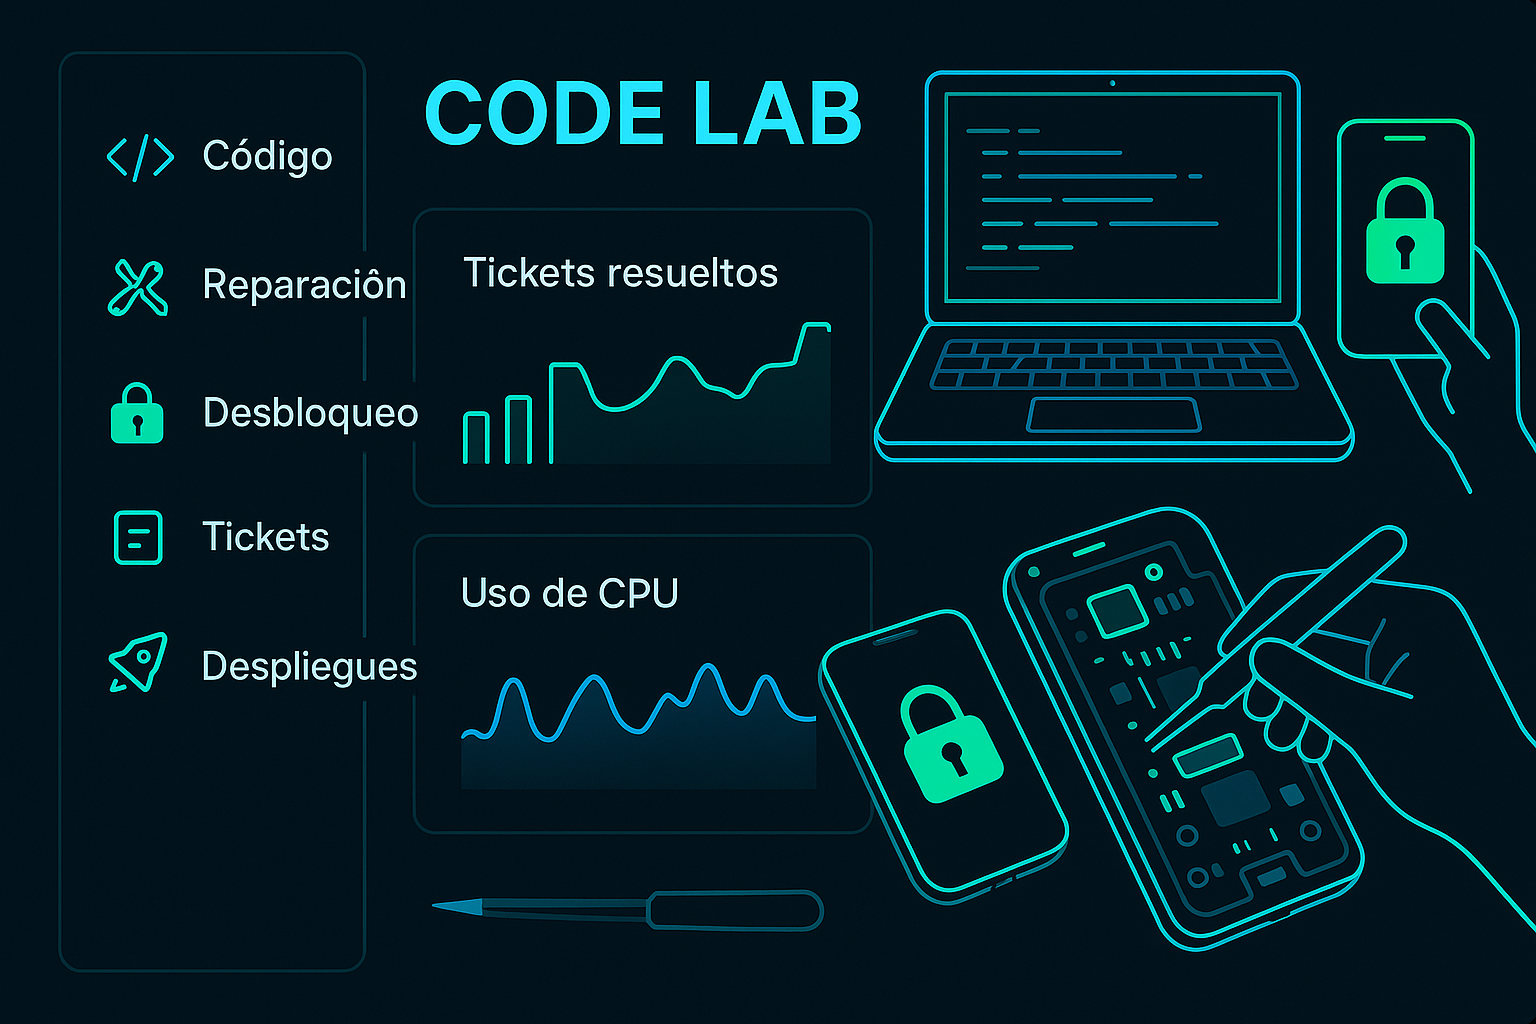
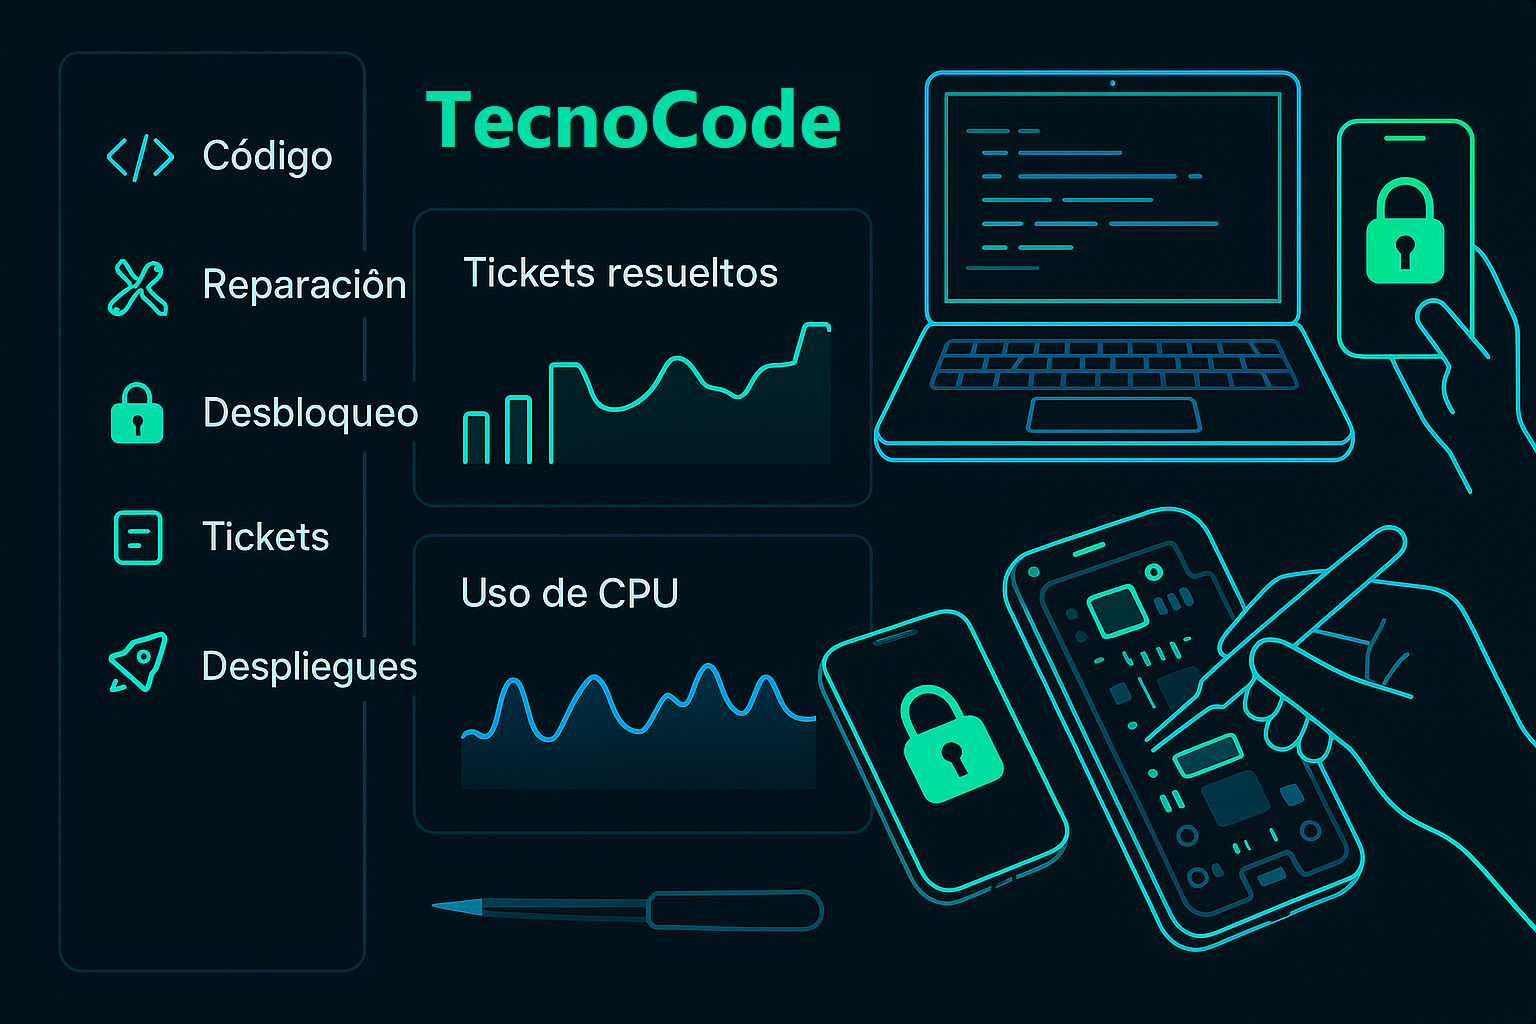
cambios varios

Changed region(s): [[0.25, 0.0625, 0.5625, 0.1562]]

diff --git a/src/app/componets/ChatWidget.js b/src/app/componets/ChatWidget.js
@@ -33,7 +33,6 @@ export default function ChatWidget() {
   };
 
   useEffect(() => {
-    // Check rate limits whenever the component mounts or the chat opens
     checkRateLimits();
 
     if (timeRemaining > 0) {
@@ -52,7 +51,6 @@ export default function ChatWidget() {
   }, [timeRemaining, isOpen]);
 
   const checkRateLimits = () => {
-    // Check cooldown timer
     const lastSubmitTime = localStorage.getItem('lastEmailSubmit');
     if (lastSubmitTime) {
       const timeSinceLastSubmit = Math.floor((Date.now() - parseInt(lastSubmitTime)) / 1000);
@@ -60,12 +58,8 @@ export default function ChatWidget() {
         setTimeRemaining(COOLDOWN_TIME - timeSinceLastSubmit);
       }
     }
-
-    // Check daily email limit
     const today = new Date().toDateString();
     const emailHistory = JSON.parse(localStorage.getItem('emailSubmitHistory') || '{}');
-    
-    // Clean up old entries (optional)
     const updatedHistory = {};
     for (const date in emailHistory) {
       if (date === today || new Date(date) >= new Date(today)) {
@@ -73,11 +67,11 @@ export default function ChatWidget() {
       }
     }
     localStorage.setItem('emailSubmitHistory', JSON.stringify(updatedHistory));
-    
+
     // Check today's count
     const todayCount = updatedHistory[today] || 0;
     setDailyEmailsLeft(MAX_EMAILS_PER_DAY - todayCount);
-    
+
     if (todayCount >= MAX_EMAILS_PER_DAY) {
       setError(`Has alcanzado el límite de ${MAX_EMAILS_PER_DAY} mensajes por día. Inténtalo mañana.`);
       return false;
@@ -89,19 +83,16 @@ export default function ChatWidget() {
   const updateSubmitHistory = () => {
     const today = new Date().toDateString();
     const emailHistory = JSON.parse(localStorage.getItem('emailSubmitHistory') || '{}');
-
-    // Update today's count
     emailHistory[today] = (emailHistory[today] || 0) + 1;
-    
+
     localStorage.setItem('emailSubmitHistory', JSON.stringify(emailHistory));
     localStorage.setItem('lastEmailSubmit', Date.now().toString());
-    
+
     setTimeRemaining(COOLDOWN_TIME);
     setDailyEmailsLeft(prev => Math.max(0, prev - 1));
   };
 
   const toggleChat = () => {
-    // If opening the chat, check limits again
     if (!isOpen) {
       checkRateLimits();
     }
@@ -113,7 +104,6 @@ export default function ChatWidget() {
   const handleSubmit = (e) => {
     e.preventDefault();
 
-    // Check if user can submit again
     if (!checkRateLimits()) {
       return;
     }
@@ -132,34 +122,34 @@ export default function ChatWidget() {
       },
       process.env.NEXT_PUBLIC_EMAILJS_PUBLIC_KEY
     )
-    .then(() => {
-      updateSubmitHistory();
-      setSuccess('¡Mensaje enviado con éxito!');
-      setEmail('');
-      setFullName('');
-      setMensaje('');
-    })
-    .catch((error) => {
-      console.error('Error al enviar el mensaje:', error);
-      setError('Ocurrió un error al enviar el mensaje.');
-    })
-    .finally(() => {
-      setIsSubmitting(false);
-    });
+      .then(() => {
+        updateSubmitHistory();
+        setSuccess('¡Mensaje enviado con éxito!');
+        setEmail('');
+        setFullName('');
+        setMensaje('');
+      })
+      .catch((error) => {
+        console.error('Error al enviar el mensaje:', error);
+        setError('Ocurrió un error al enviar el mensaje.');
+      })
+      .finally(() => {
+        setIsSubmitting(false);
+      });
   };
 
   return (
     <div className="fixed bottom-4 right-5 z-50">
       {isOpen ? (
-        <div className="bg-black rounded-md shadow-lg w-80 text-white border border-gray-700">
+        <div className="bg-black rounded-md shadow-lg w-80 text-white border-2 border-[#7e10c9]">
           <div className="flex justify-between items-center p-4 border-b border-gray-700">
             <div className="text-sm">
-              <h3 className="font-semibold">Por correo electrónico también puede contactarnos</h3>
+              <h3 className="font-semibold">Contáctanos ahora</h3>
               <p className="text-gray-400 text-xs">Ayúdanos a saber tu problema o consulta.</p>
               {dailyEmailsLeft < MAX_EMAILS_PER_DAY && (
                 <p className="text-xs text-yellow-300 mt-1">
-                  {dailyEmailsLeft > 0 
-                    ? `Te quedan ${dailyEmailsLeft} mensaje(s) hoy` 
+                  {dailyEmailsLeft > 0
+                    ? `Te quedan ${dailyEmailsLeft} mensaje(s) hoy`
                     : 'Has alcanzado el límite diario'}
                 </p>
               )}
@@ -174,13 +164,13 @@ export default function ChatWidget() {
             {success && <AlertMessage message={success} type="success" />}
 
             <div>
-              <label htmlFor="email" className="block text-sm mb-1">Correo Electrónico</label>
+              <label htmlFor="email" className="block text-sm mb-1">Tú Correo Electrónico</label>
               <input
                 type="email"
                 id="email"
                 value={email}
                 onChange={(e) => setEmail(e.target.value)}
-                placeholder="email@example.com"
+                placeholder="marcos@gmail.com"
                 className="w-full p-2 bg-gray-800 text-white rounded border border-gray-700"
                 required
                 disabled={dailyEmailsLeft <= 0}
@@ -202,12 +192,12 @@ export default function ChatWidget() {
             </div>
 
             <div>
-              <label htmlFor="mensaje" className="block text-sm mb-1">Descripción</label>
+              <label htmlFor="mensaje" className="block text-sm mb-1">Descripción y teléfono (opcional)</label>
               <textarea
                 id="mensaje"
                 value={mensaje}
                 onChange={(e) => setMensaje(e.target.value)}
-                placeholder="Quiero un desbloqueo"
+                placeholder="Quiero un desbloqueo de mi notebook"
                 className="w-full p-2 bg-gray-800 text-white rounded border border-gray-700"
                 rows={3}
                 required
@@ -215,25 +205,25 @@ export default function ChatWidget() {
               />
             </div>
 
-            <button 
-              type="submit" 
-              className="w-full py-2 bg-gray-700 hover:bg-gray-600 text-blue-400 rounded transition-colors disabled:opacity-50"
+            <button
+              type="submit"
+              className="w-full py-2 bg-gray-700 hover:bg-gray-600 text-white rounded transition-colors disabled:opacity-50"
               disabled={isSubmitting || timeRemaining > 0 || dailyEmailsLeft <= 0}
             >
-              {isSubmitting 
-                ? 'Enviando...' 
-                : timeRemaining > 0 
-                  ? `Espera ${timeRemaining}s` 
-                  : dailyEmailsLeft <= 0 
-                    ? 'Límite alcanzado' 
+              {isSubmitting
+                ? 'Enviando...'
+                : timeRemaining > 0
+                  ? `Espera ${timeRemaining}s`
+                  : dailyEmailsLeft <= 0
+                    ? 'Límite alcanzado'
                     : 'Enviar'}
             </button>
           </form>
         </div>
       ) : (
-        <button 
+        <button
           onClick={toggleChat}
-          className="bg-white p-3 rounded-full shadow-lg hover:bg-gray-800 transition-colors"
+          className="bg-[#7e10c9] p-3 rounded-full shadow-lg hover:bg-white transition-colors"
         >
           <MessageSquare size={24} className="text-black" />
         </button>

diff --git a/src/app/componets/Header.js b/src/app/componets/Header.js
@@ -60,7 +60,7 @@ export default function Header() {
                 width={52} 
                 height={52}
               />
-              TecnoCode
+              <p className='font-medium text-[#7e10c9]'>TecnoCode</p>
             </span>
           </Link>
         </div>
@@ -71,9 +71,9 @@ export default function Header() {
             <Link 
               key={i} 
               href={link.href} 
-              className={`hover:text-gray-400 transition ${
+              className={`hover:text-[#7e10c9] transition ${
                 activeSection === link.href.replace('#', '') 
-                  ? "text-blue-500 font-medium border-b-2 border-blue-500" 
+                  ? "text-[#7e10c9] font-medium border-b-2 border-[#7e10c9]" 
                   : ""
               }`}
             >
@@ -84,7 +84,7 @@ export default function Header() {
 
         {/* Botón de menú móvil */}
         <button 
-          className="md:hidden flex items-center" 
+          className="md:hidden flex items-center text-sky-500" 
           onClick={() => setMobileMenuOpen(!mobileMenuOpen)}
         >
           <svg 
@@ -104,7 +104,7 @@ export default function Header() {
         </button>
 
         {/* Icono externo (escritorio) */}
-        <div className="hidden md:flex items-center">
+        <div className="hidden md:flex items-center text-sky-500">
           <Link href="https://github.com/fede-bustamantee" className="flex items-center">
             <Github size={24} />
           </Link>
@@ -122,7 +122,7 @@ export default function Header() {
                   href={link.href} 
                   className={`py-1 hover:text-gray-400 transition ${
                     activeSection === link.href.replace('#', '') 
-                      ? "text-blue-500 font-medium pl-2 border-l-2 border-blue-500" 
+                      ? "text-sky-500 font-medium pl-2 border-l-2 border-sky-500" 
                       : ""
                   }`}
                   onClick={() => setMobileMenuOpen(false)}
@@ -130,7 +130,7 @@ export default function Header() {
                   {link.label}
                 </Link>
               ))}
-              <div className="flex items-center space-x-4 pt-2">
+              <div className="flex items-center space-x-4 pt-2 text-[#7e10c9]">
                 <Link href="https://github.com/fede-bustamantee" className="flex items-center">
                   <Github size={20} />
                 </Link>

diff --git a/src/app/componets/Contact.js b/src/app/componets/Contact.js
@@ -15,9 +15,6 @@ const Contact = () => {
         </p>
 
         <div className="flex flex-wrap justify-center items-center gap-4 mb-8">
-          <div className="w-20 h-20 border-2 border-gray-700 border-dashed rounded-lg flex items-center justify-center">
-            <span className="text-3xl text-gray-700">+</span>
-          </div>
 
           {contact.map((extension, index) => (
             <a
@@ -25,18 +22,15 @@ const Contact = () => {
               href={extension.link}
               target="_blank"
               rel="noopener noreferrer"
-              className={`w-20 h-20 rounded-lg flex flex-col items-center justify-center ${extension.bgColor || "bg-gray-900"} hover:scale-105 transition-transform`}
+              className={`w-20 h-20 rounded-lg border border-[#7e10c9] flex flex-col items-center justify-center ${extension.bgColor || "bg-gray-900"} hover:scale-105 transition-transform`}
             >
               <i className={`${extension.faIcon} text-2xl ${extension.iconColor || "text-white"} mb-1`} />
-              <div className="text-xs text-gray-400 text-center px-1">
+              <div className="text-xs text-white text-center px-1">
                 {extension.name}
               </div>
             </a>
           ))}
 
-          <div className="w-20 h-20 border-2 border-gray-700 border-dashed rounded-lg flex items-center justify-center">
-            <span className="text-3xl text-gray-700">+</span>
-          </div>
         </div>
 
         <a href="https://wa.me/3498417715" target="_blank" rel="noopener noreferrer">

diff --git a/src/app/componets/Information.js b/src/app/componets/Information.js
@@ -24,7 +24,7 @@ export default function ServicioTecnicoInfo() {
           key={key}
           onClick={() => setActiveTab(key)}
           className={`py-3 px-4 rounded-lg transition-all flex items-center justify-center gap-2
-            ${activeTab === key ? "bg-gray-800 border border-gray-700" : "bg-gray-900 hover:bg-gray-800"}`}
+            ${activeTab === key ? "bg-[#7e10c9]" : "bg-gray-900 hover:bg-[#7e10c9]"}`}
         >
           <div className="w-6 h-6">
             {tabContent[key].icon ? cloneElement(tabContent[key].icon, { className: "w-full h-full" }) : null}
@@ -35,7 +35,7 @@ export default function ServicioTecnicoInfo() {
       </div>
 
       {/* Content Area */}
-      <div className="bg-gray-900 rounded-lg p-6 border border-gray-800">
+      <div className="bg-gray-900 rounded-lg p-6 border border-[#7e10c9]">
         <div className="flex items-center gap-4 mb-4">
           <div className="p-4 bg-gray-800 rounded-full">
             {tabContent[activeTab].icon}

diff --git a/src/app/componets/InitialSection.js b/src/app/componets/InitialSection.js
@@ -16,10 +16,10 @@ export default function HeroSection() {
     </p>
     
     <div className="flex flex-row justify-center lg:justify-start space-x-3 mb-1 sm:mb-4">
-      <Link href="#services" className="px-3 py-2 sm:px-6 sm:py-3 text-sm sm:text-base bg-blue-600 text-white rounded-md hover:bg-blue-700 transition text-center">
+      <Link href="#services" className="px-3 py-2 sm:px-6 sm:py-3 text-sm sm:text-base bg-blue-600 text-white rounded-md hover:bg-blue-800 transition text-center">
         Conocer más
       </Link>
-      <Link href="#contact" className="px-3 py-2 sm:px-6 sm:py-3 text-sm sm:text-base border border-gray-700 hover:bg-gray-800 rounded-md transition text-center">
+      <Link href="#contact" className="px-3 py-2 sm:px-6 sm:py-3 text-sm sm:text-base border-2 border-[#7e10c9] hover:bg-[#7e10c9] rounded-md transition text-center">
         Contáctanos
       </Link>
     </div>

diff --git a/src/data/contact.js b/src/data/contact.js
@@ -1,23 +1,23 @@
-// data/contact.js
 export const contact = [
   {
     name: "WhatsApp",
     faIcon: "fab fa-whatsapp",
     link: "https://wa.me/3498417715",
-    bgColor: "bg-gray-800",
+    bgColor: "bg-transparent",
+    iconColor: "text-[#25D366]"
   },
   {
     name: "Gmail",
     faIcon: "fas fa-envelope",
     link: "mailto:soporte@tudominio.com",  // reemplazá con tu correo real
-    bgColor: "bg-gray-800",
-    iconColor: "text-white"
+    bgColor: "bg-transparent",
+    iconColor: "text-red-800"
   },
   {
     name: "Instagram",
     faIcon: "fab fa-instagram",
     link: "https://instagram.com/tu_usuario",  // reemplazá con tu usuario real
-    bgColor: "bg-gray-800",
-    iconColor: "text-white"
+    bgColor: "bg-transparent",
+    iconColor: "text-[#D10072]"
   }
 ];

diff --git a/src/app/componets/Services.js b/src/app/componets/Services.js
@@ -14,7 +14,7 @@ const Services = () => {
           {services.map((service) => (
             <div
               key={service.id}
-              className="bg-gray-900 rounded-2xl p-6 flex flex-col items-center text-center"
+              className="bg-gray-900 border border-[#7e10c9] rounded-2xl p-6 flex flex-col items-center text-center"
             >
               {service.image && (
                 <div className="mb-4">

diff --git a/src/data/tabContent.js b/src/data/tabContent.js
@@ -18,7 +18,6 @@ export const tabContent = {
     items: [
       "3 meses en reparaciones generales",
       "6 meses en reemplazos de componentes",
-      "1 año en instalaciones completas",
       "Soporte técnico continuo post-servicio",
     ]
   },

diff --git a/src/app/layout.js b/src/app/layout.js
@@ -2,7 +2,7 @@ import './globals.css';
 import SplashScreen from './componets/LoadingScreen';
 
 export const metadata = {
-  title: 'Code Lab',
+  title: 'TecnoCode',
   description: 'App negocio tecnico',
 };
 
